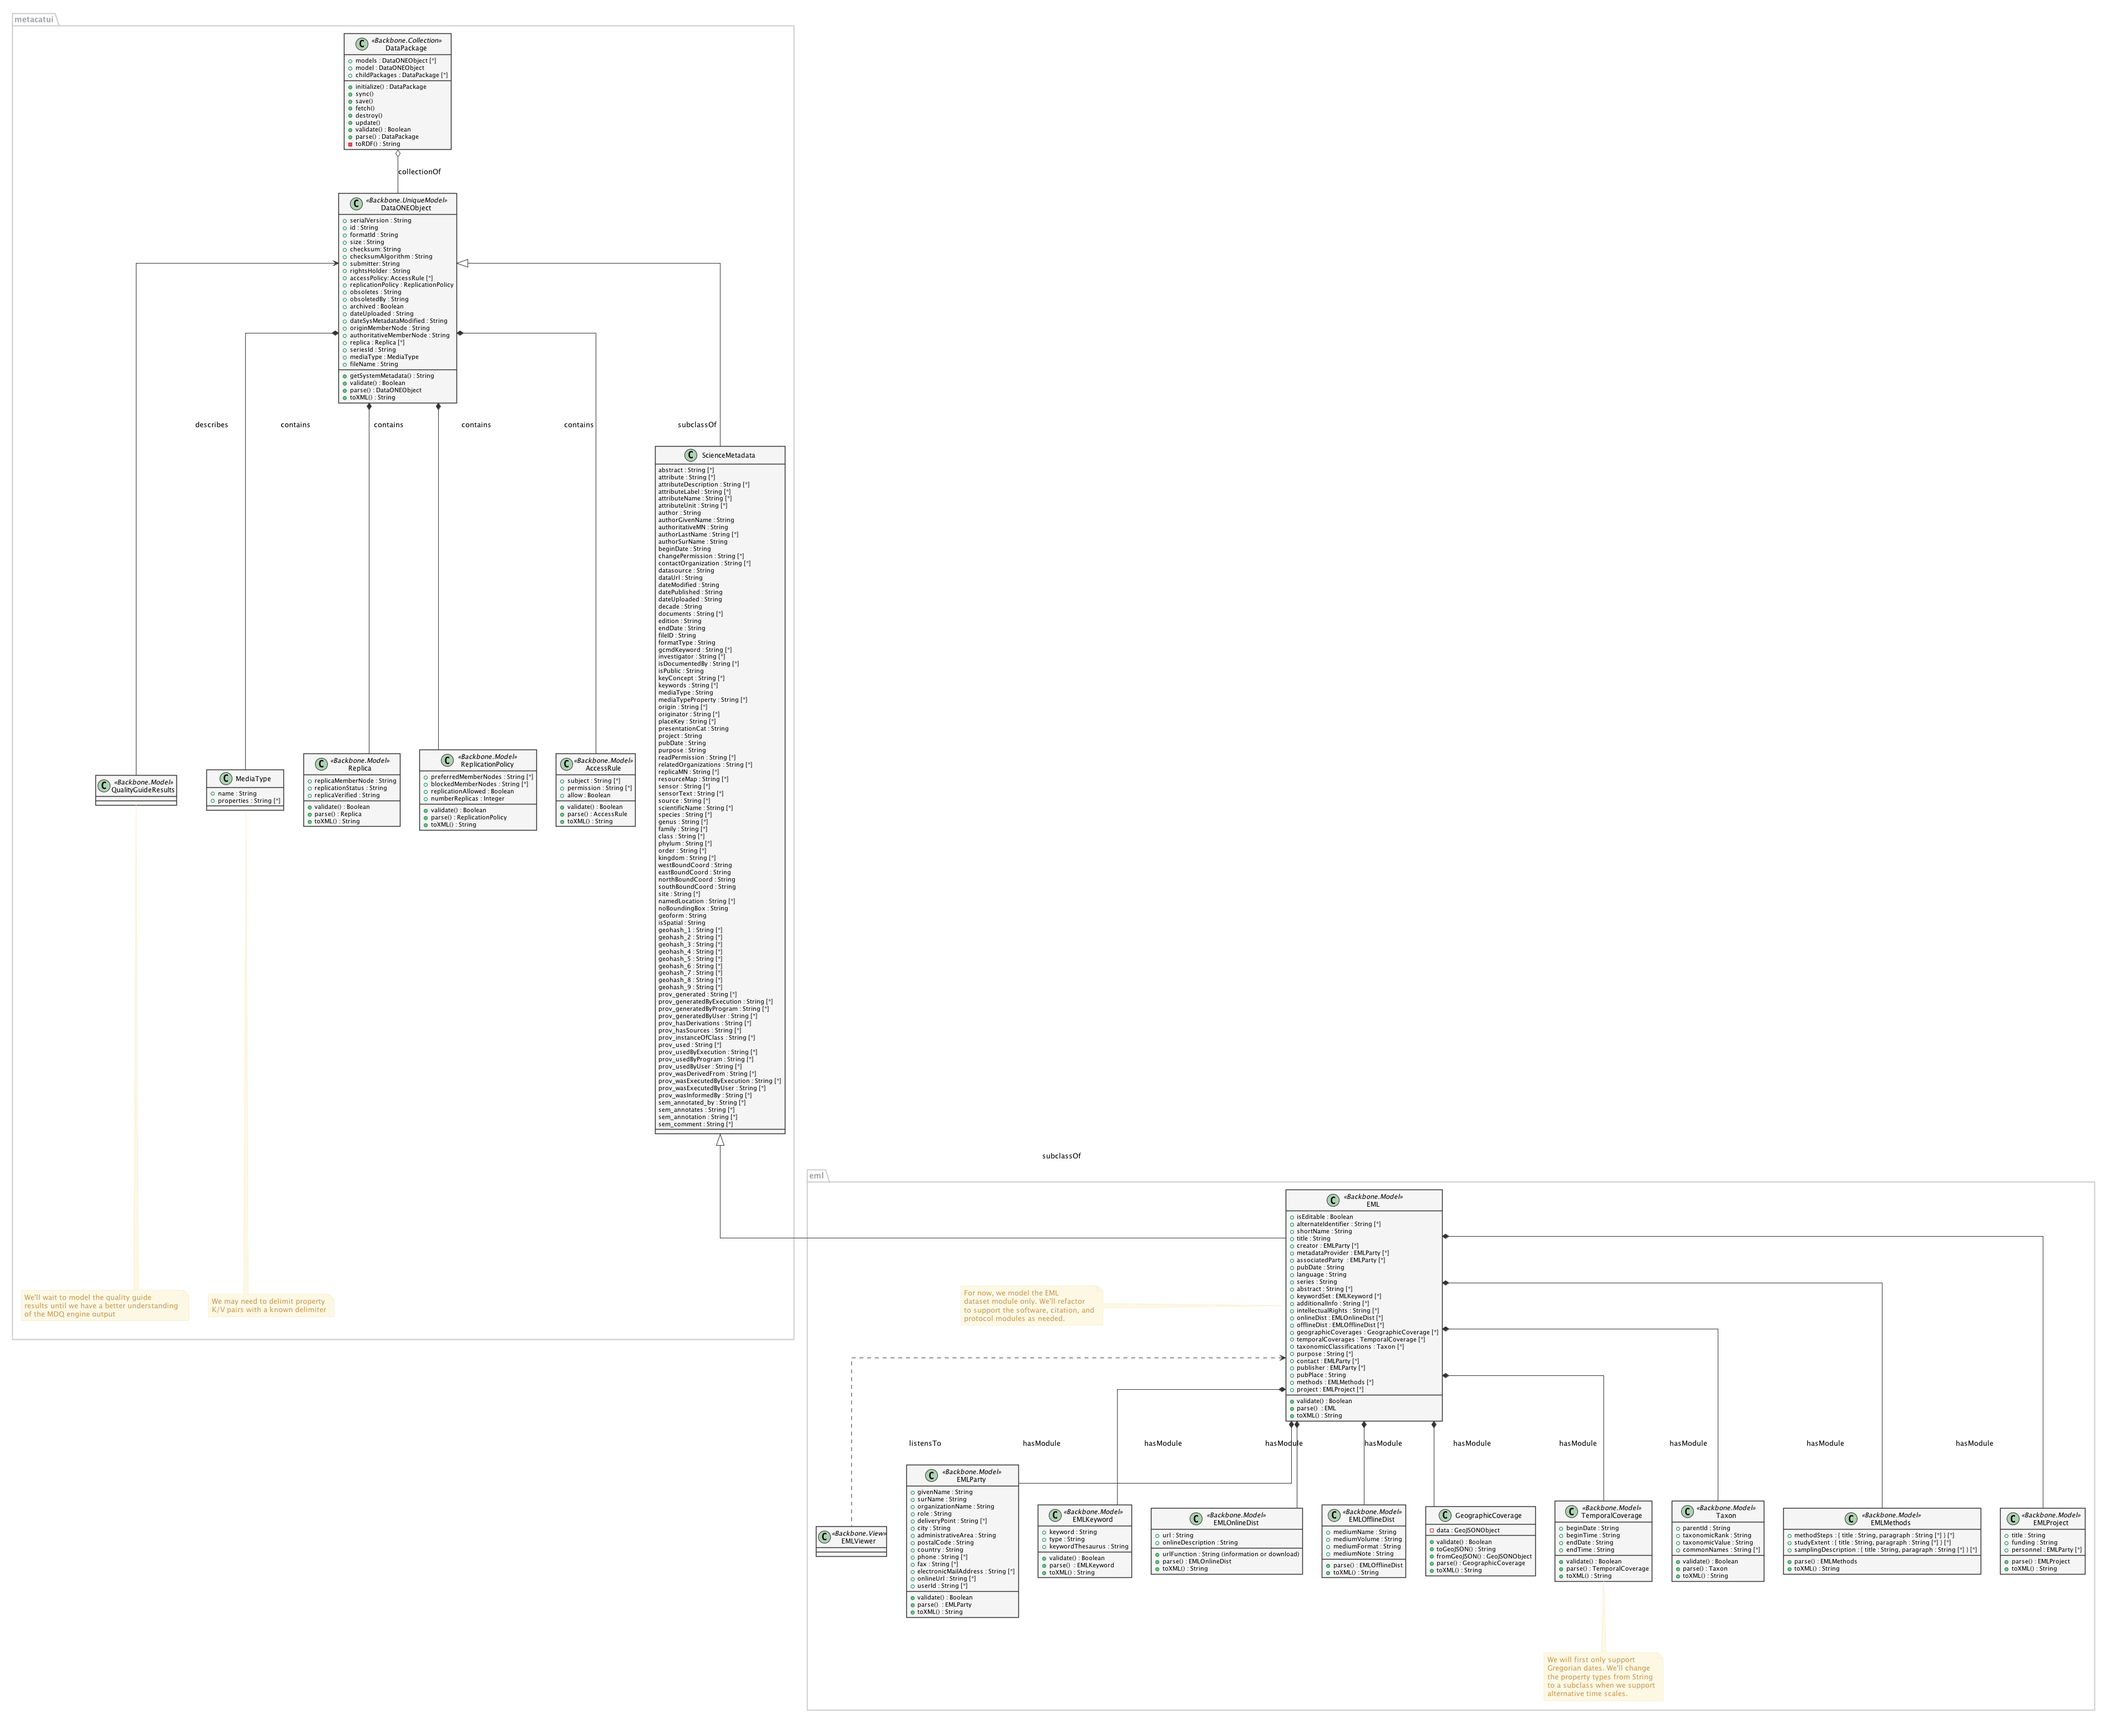
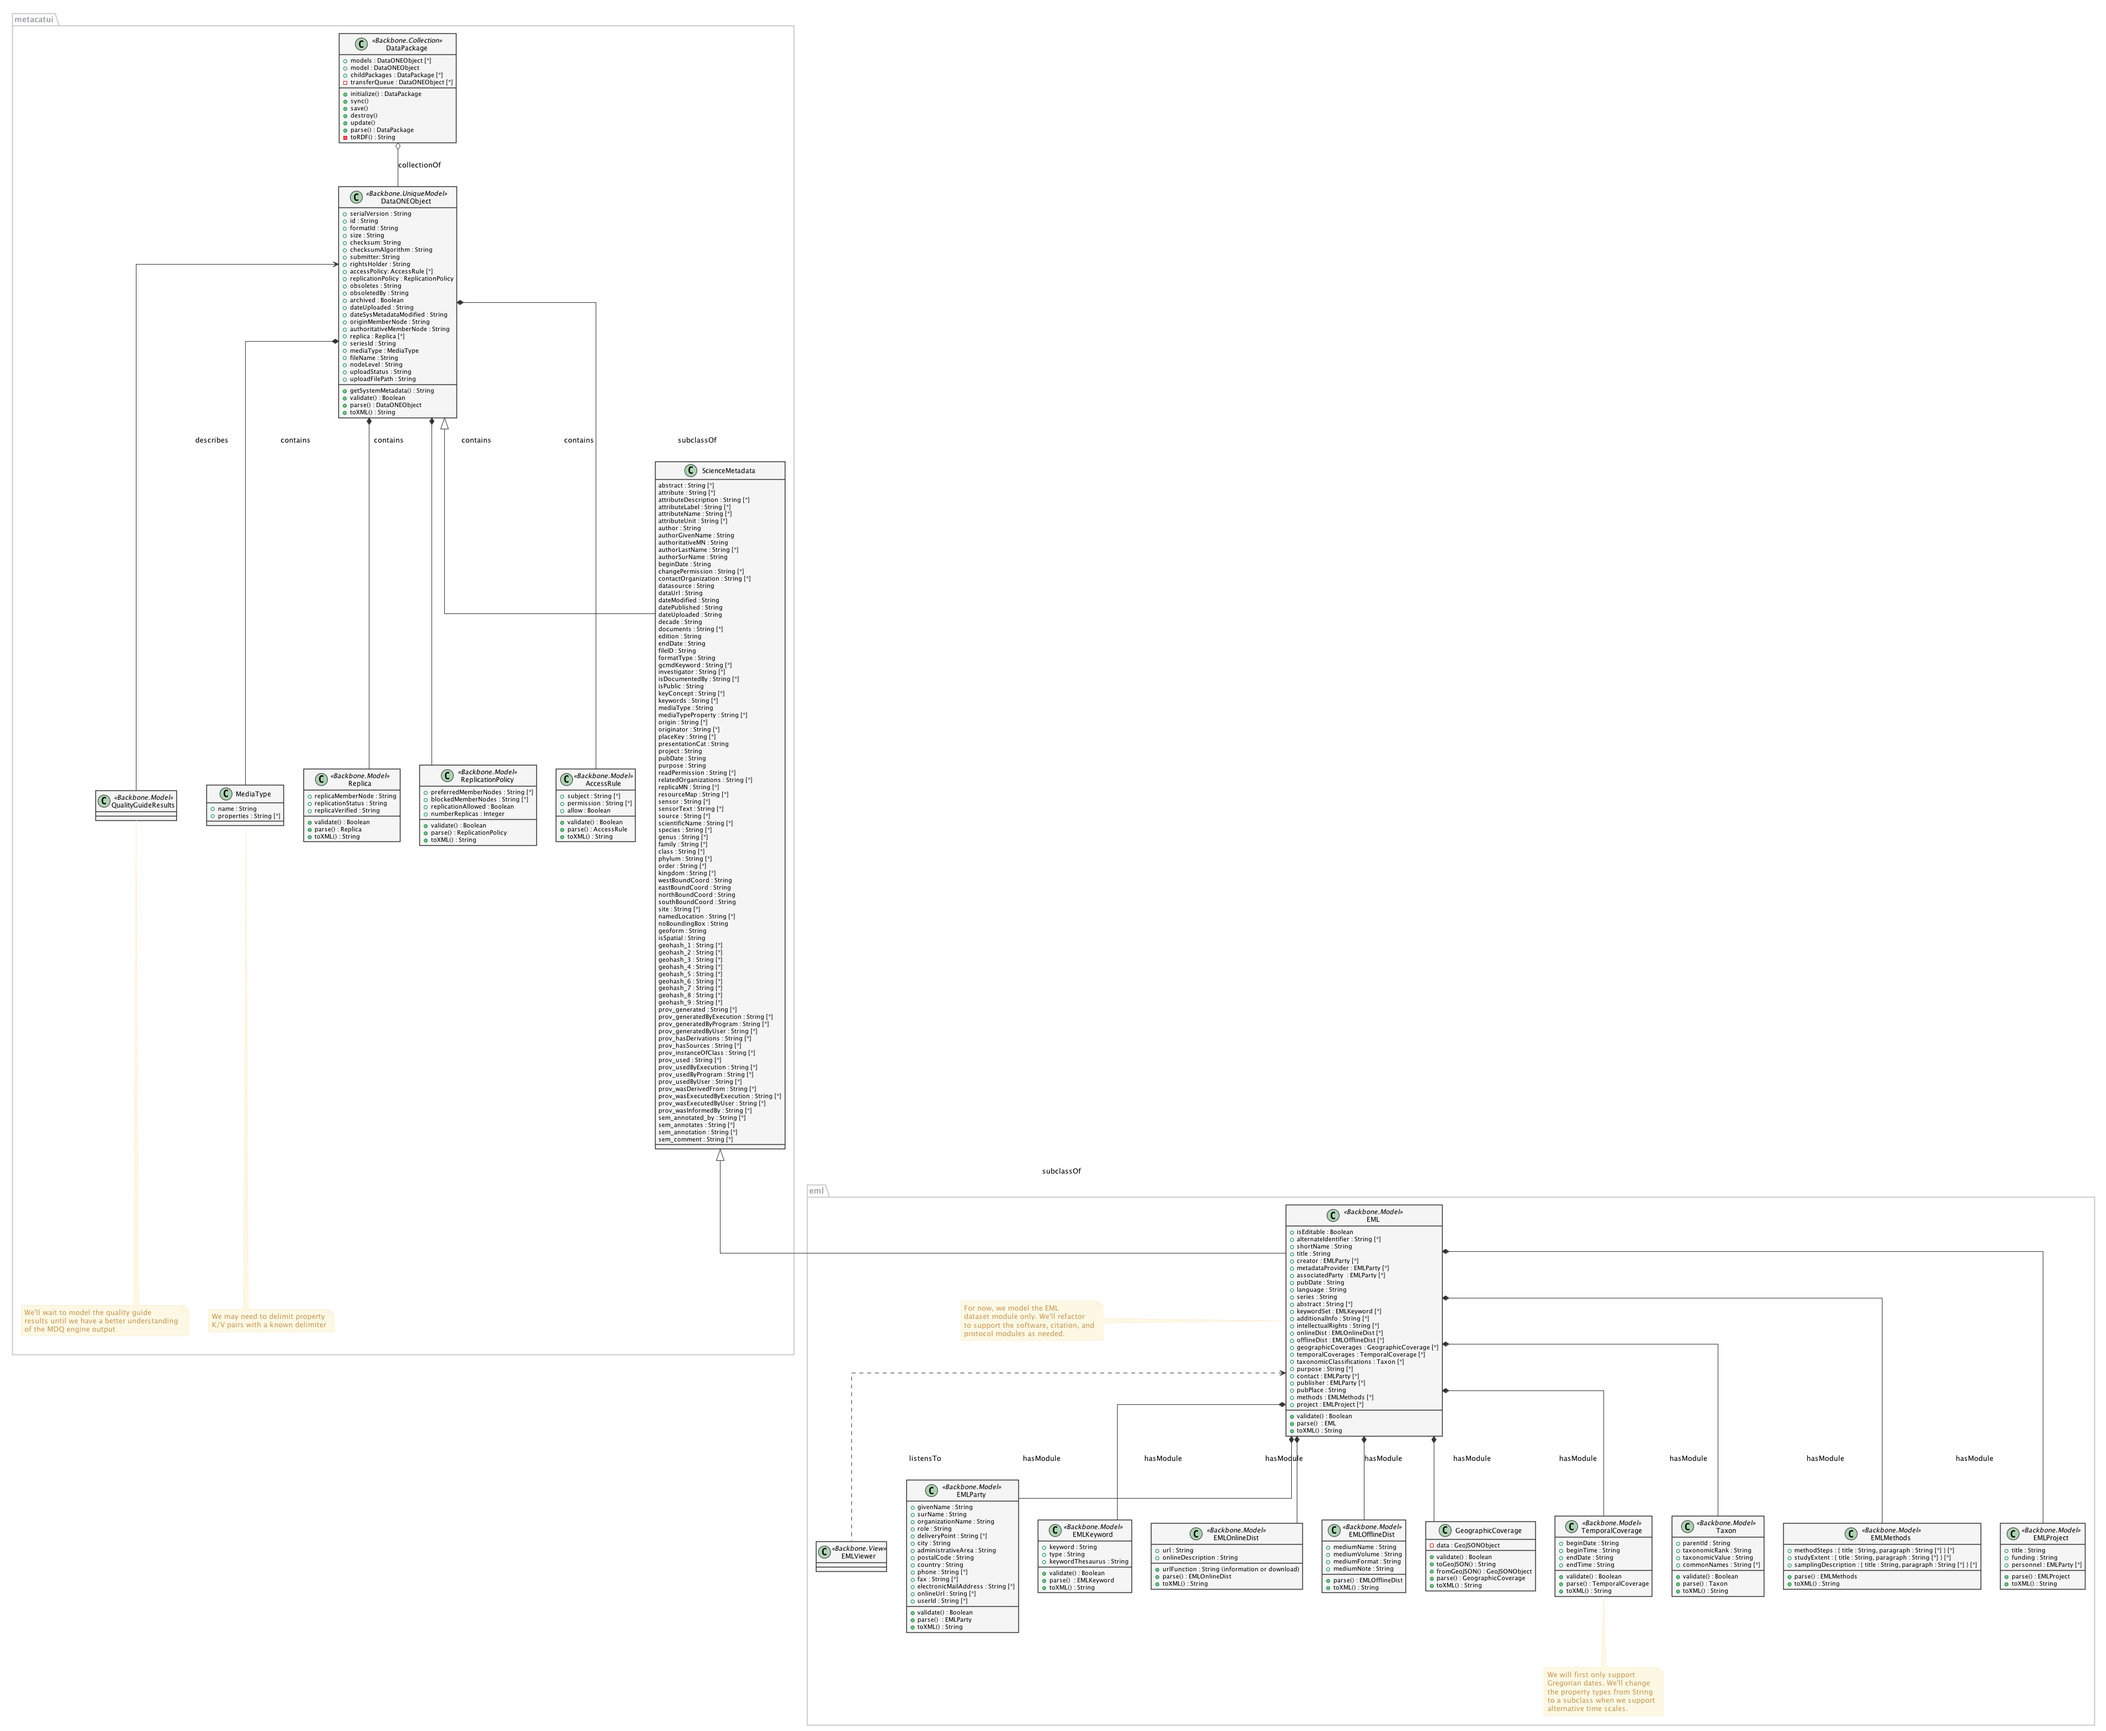
For each DataONEObject, keep track of the nodeLevel in the package hierarchy.  Also store the uploadStatus and uploadFilePath per DataONEObject.  Track the queued uploads using DataPackage.transferQueue. We need to figure out if this will persist in the collection using localStorage (which is what w

diff --git a/metacatui/docs/design/editor/editor-class-diagram.rst b/metacatui/docs/design/editor/editor-class-diagram.rst
@@ -200,6 +200,9 @@ Class Diagram
          + seriesId : String
          + mediaType : MediaType
          + fileName : String
+         + nodeLevel : String
+         + uploadStatus : String
+         + uploadFilePath : String
          + getSystemMetadata() : String
          + validate() : Boolean
          + parse() : DataONEObject
@@ -210,13 +213,12 @@ Class Diagram
          + models : DataONEObject [*]
          + model : DataONEObject
          + childPackages : DataPackage [*]
+         - transferQueue : DataONEObject [*]
          + initialize() : DataPackage
          + sync()
          + save()
-         + fetch()
          + destroy()
          + update()
-         + validate() : Boolean
          + parse() : DataPackage
          - toRDF() : String
        }
@@ -400,3 +402,4 @@ Implementation Decisions
 - For now, for we will postpone modeling eml-text, eml-entity modules, and won’t support the maintenance tree
 - Instead of modeling EML with its four submodules (dataset, software, citation, protocol, for now we’re keeping the model simple and only supporting EMLDataset
 - We won’t support the references tag in `/eml/dataset`
+- Object transfers will be queued on a per package basis, using the transferQueue property.  Each DataONEObject item in the queue will have an uploadStatus (queued, transferring, completed, modified). Science metadata that is locally modified, but not 'saved' yet will be in the modified status. Once the save event occurs, it changes to queued and is added to the queue.
